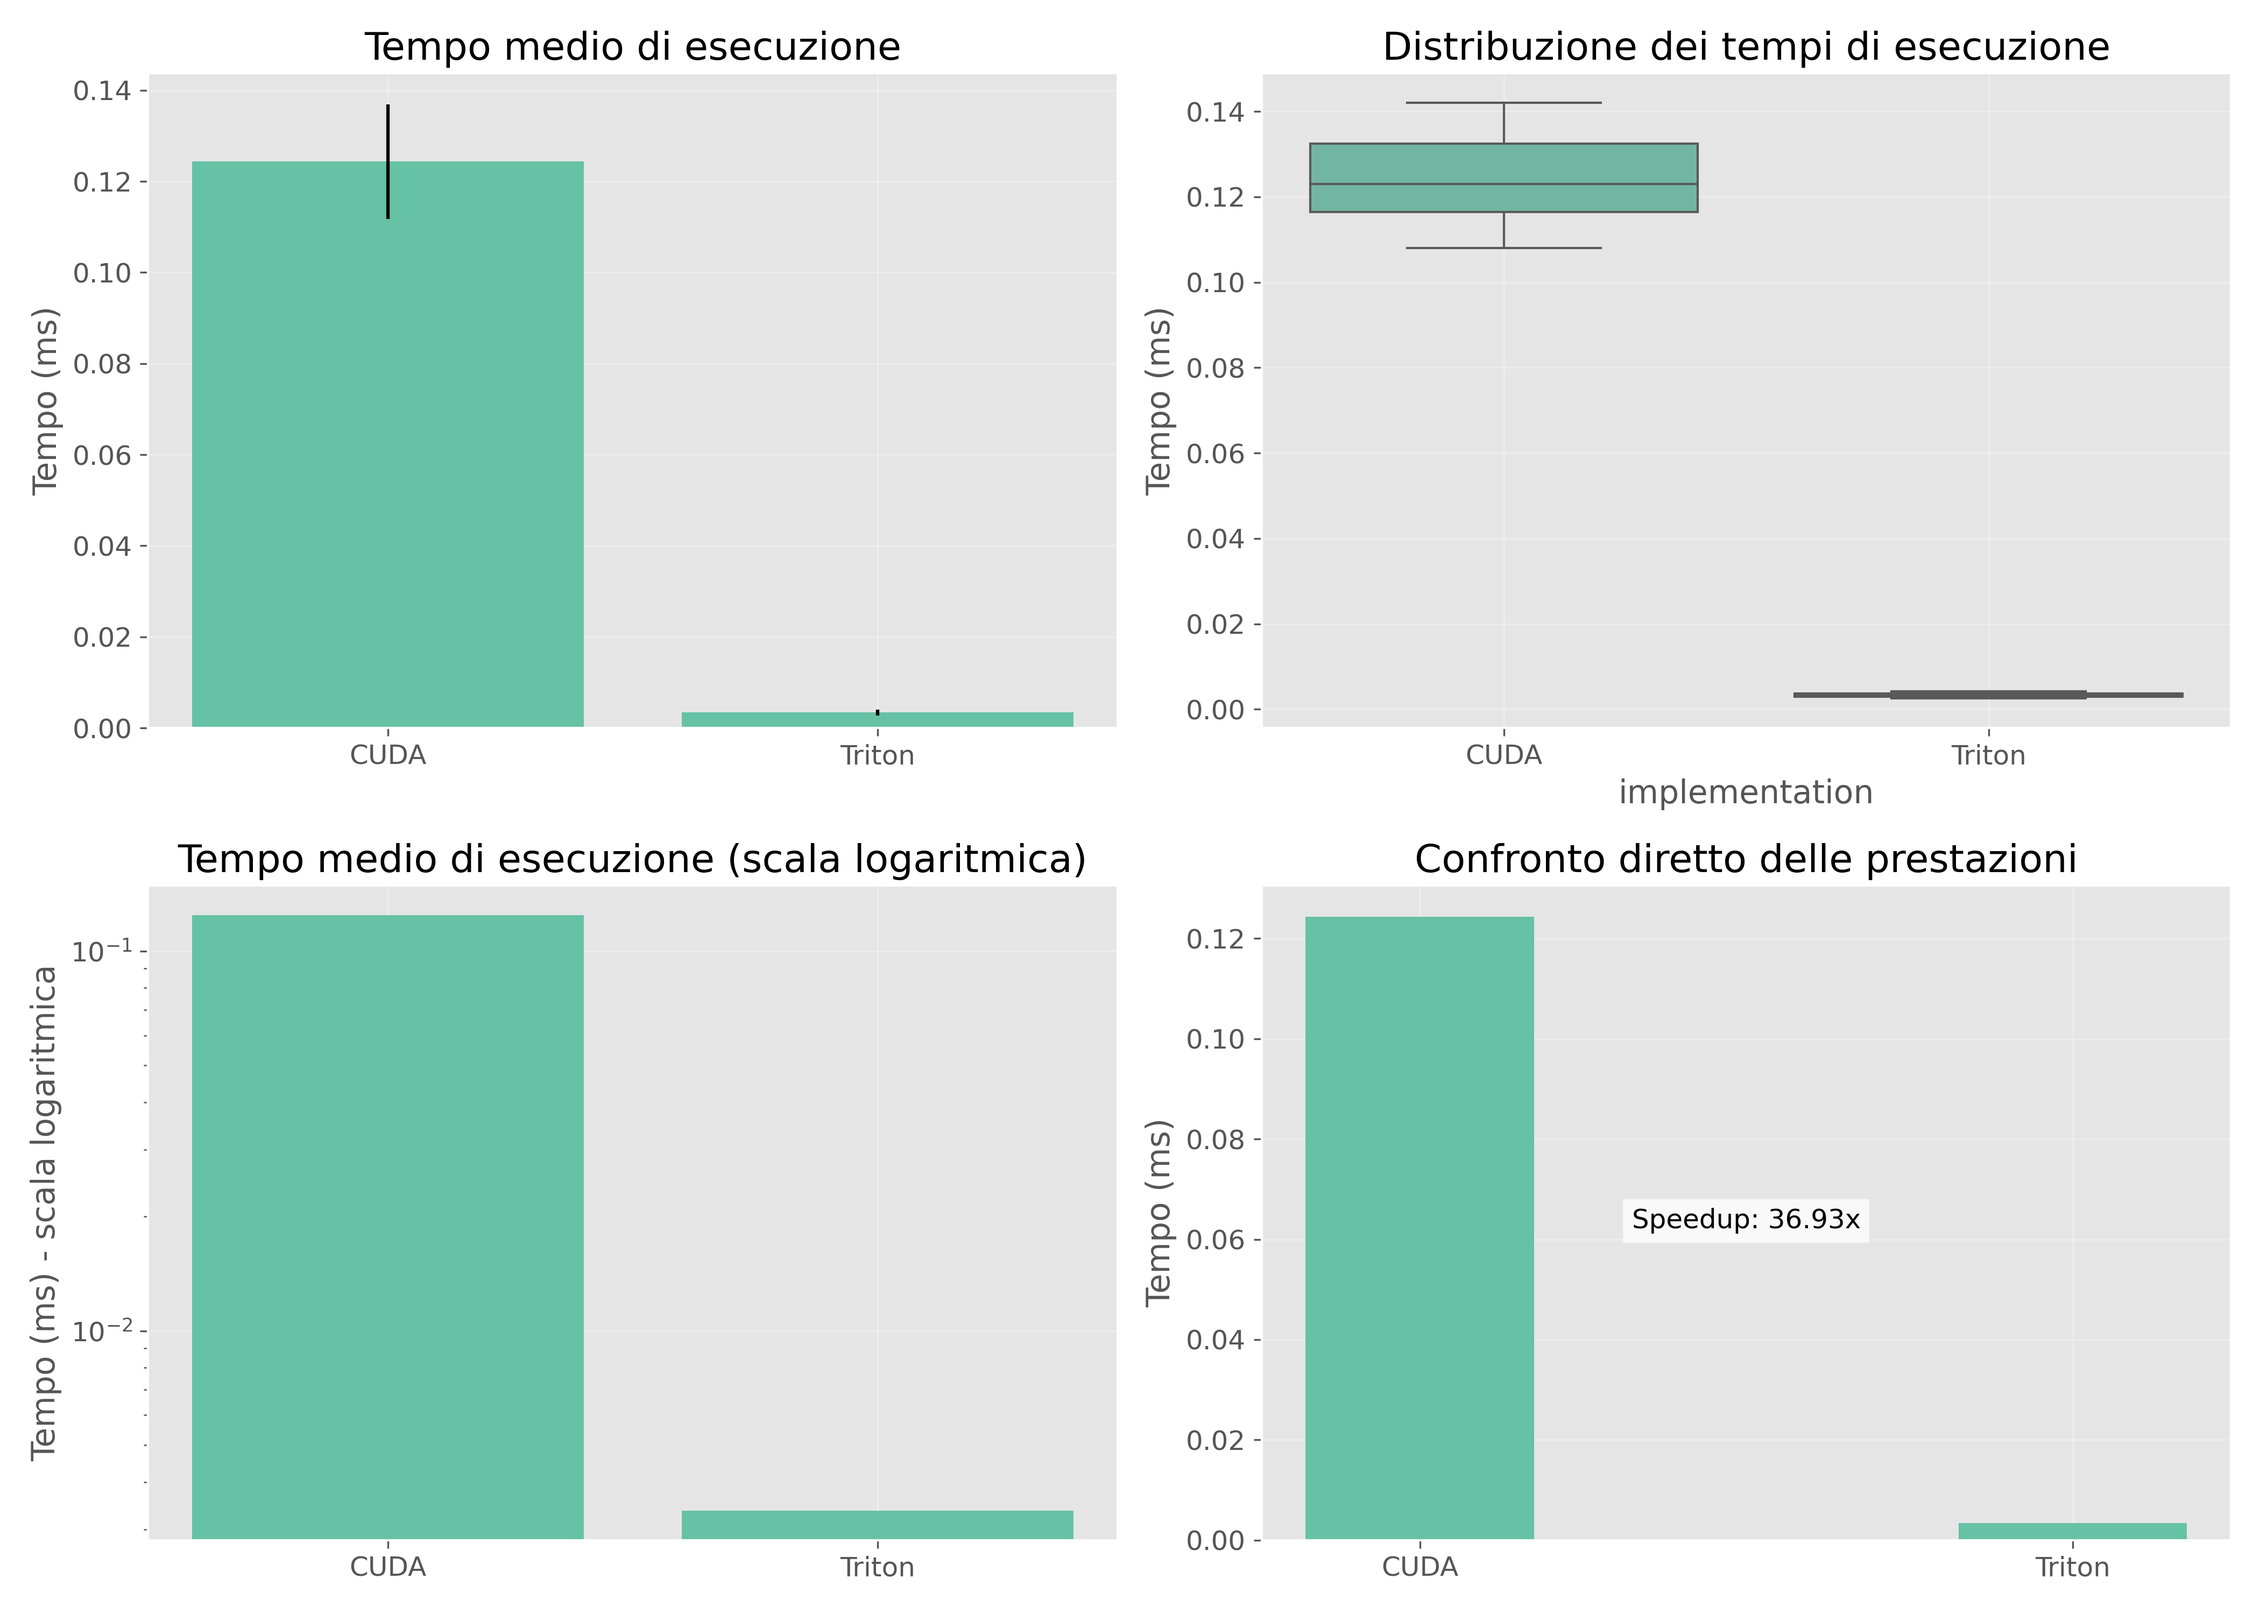
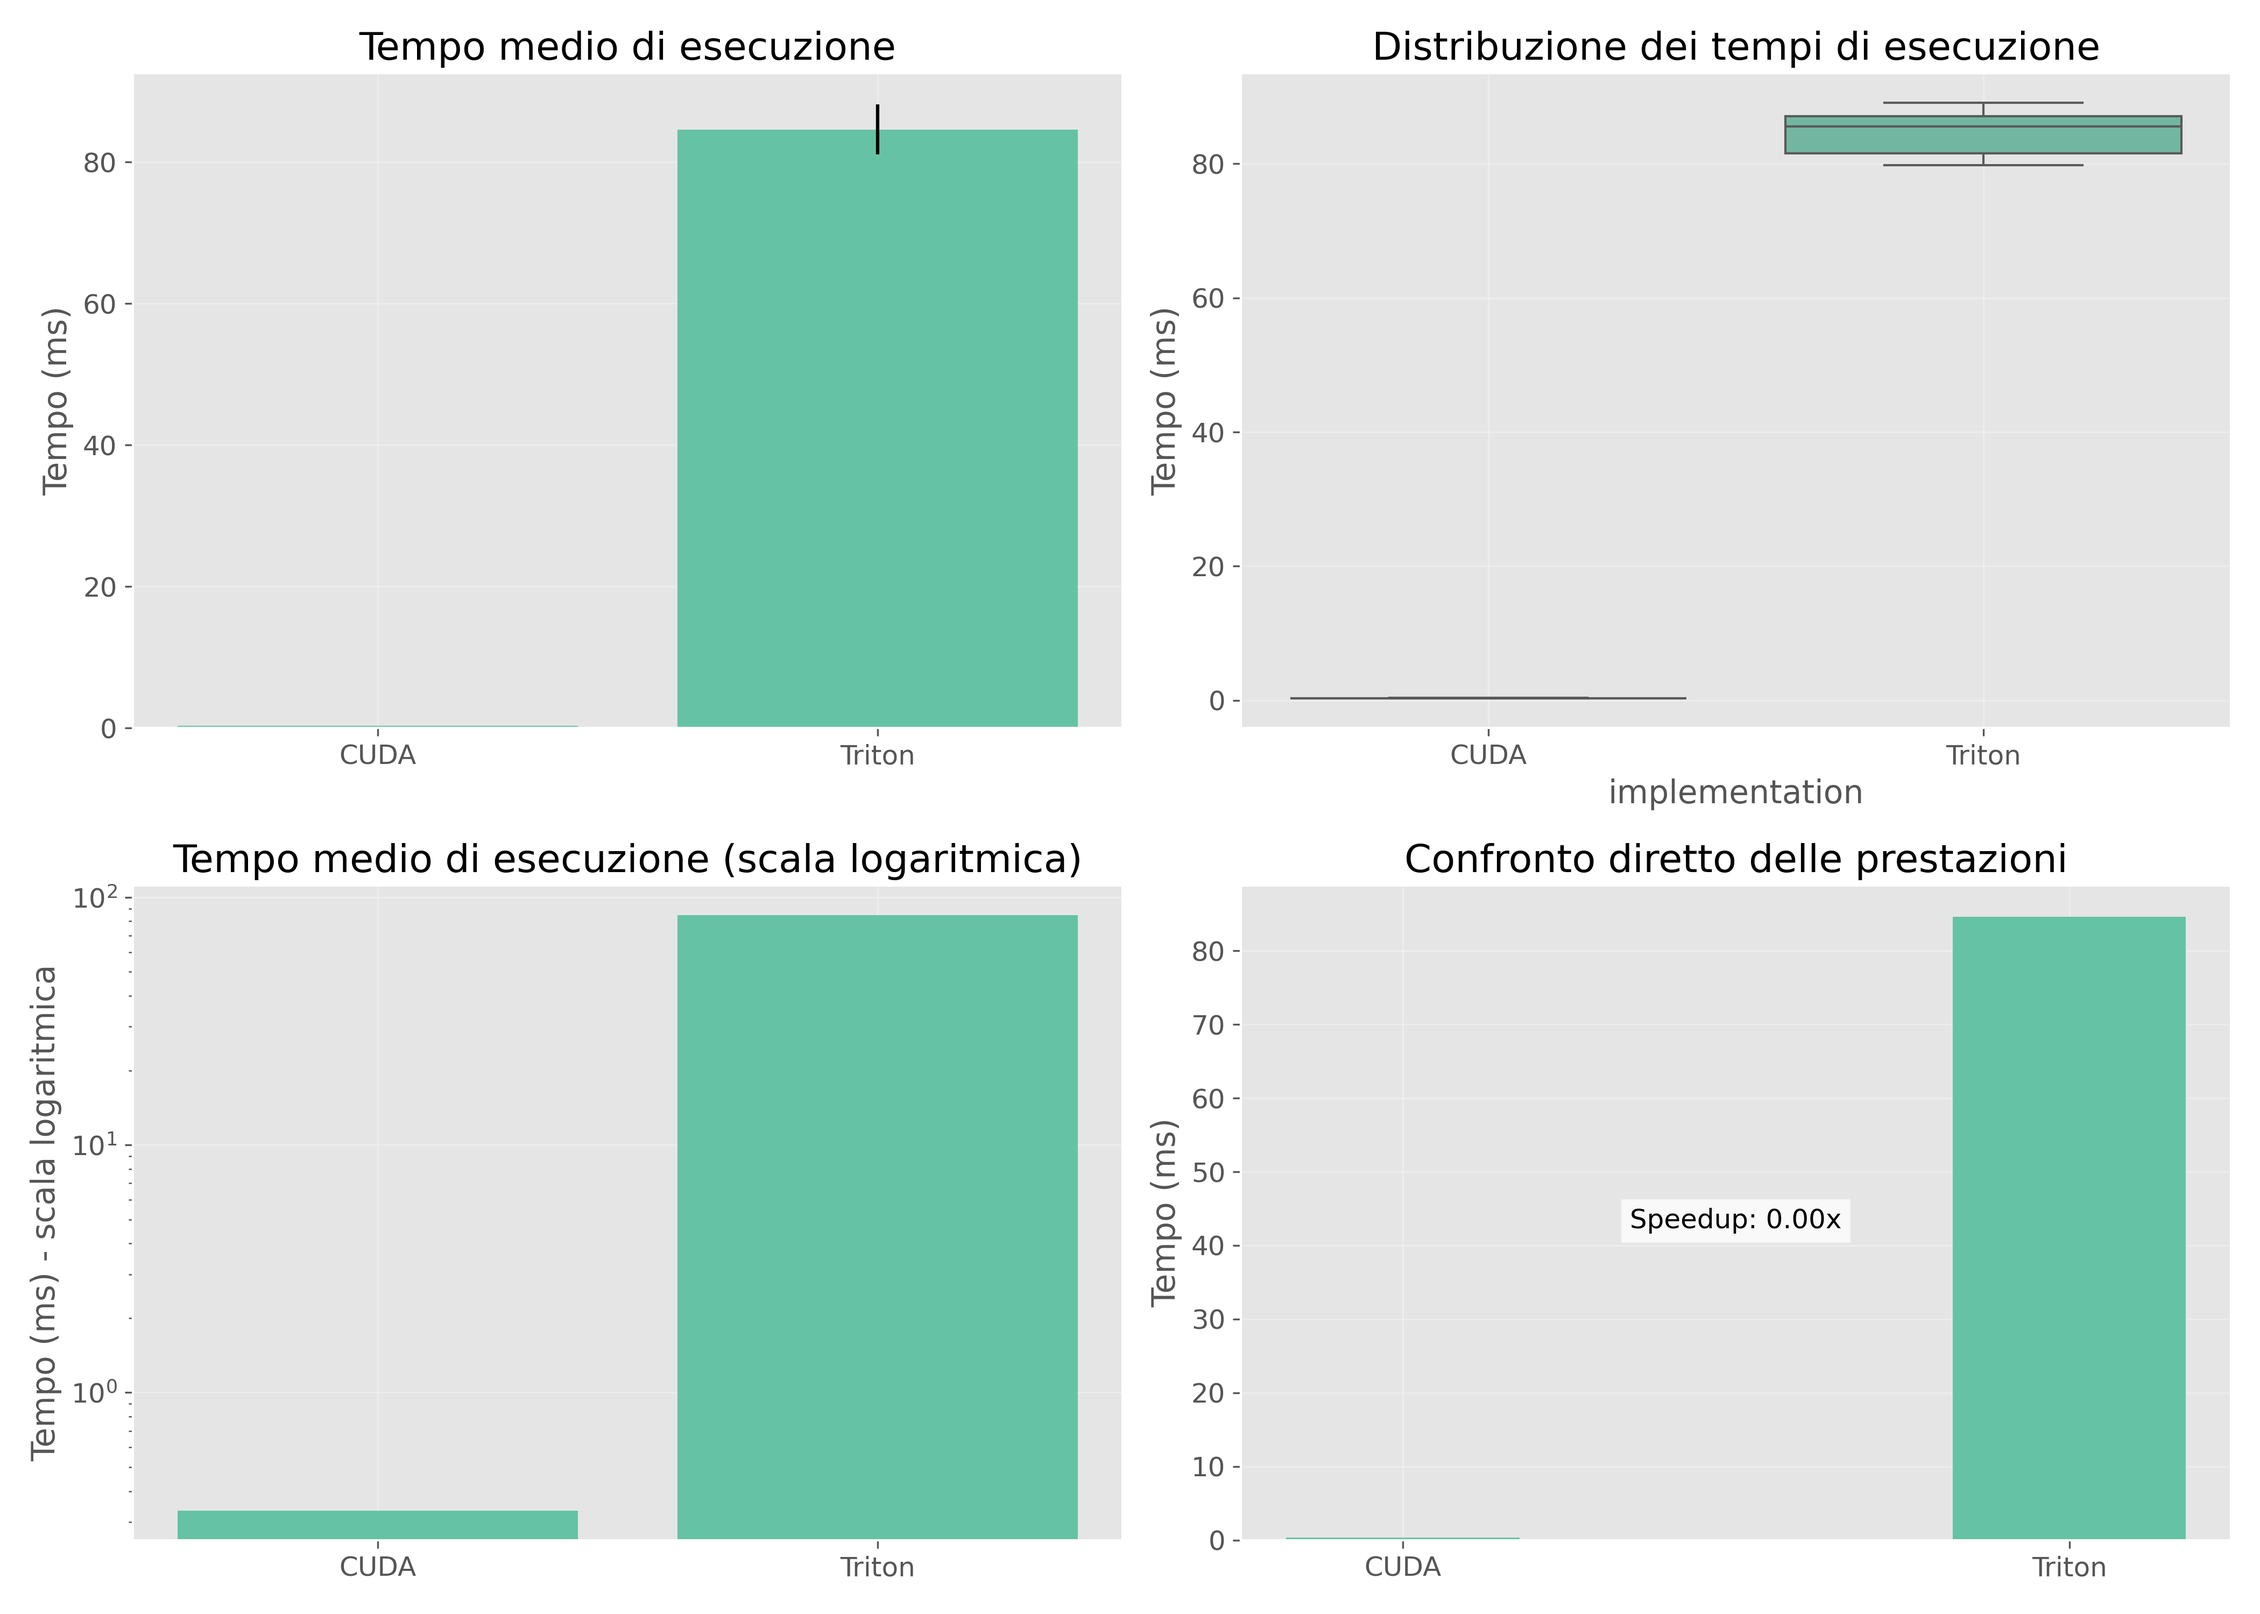
Add Triton benchmark script and update benchmark results format

diff --git a/scripts/triton_vs_cuda_analysis.py b/scripts/triton_vs_cuda_analysis.py
@@ -11,7 +11,7 @@ plt.rcParams['figure.figsize'] = (12, 8)
 plt.rcParams['font.size'] = 12
 
 # Caricamento dei dati
-results_path = Path('/home/alepot55/Desktop/uni/aca/triton_vs_cuda_fsa/results/benchmark_results.csv')
+results_path = Path('../results/benchmark_results.csv')
 df = pd.read_csv(results_path)
 
 # Conversione del tempo a millisecondi come float
@@ -28,22 +28,39 @@ def analyze_performance():
     print("\n2. STATISTICHE PER IMPLEMENTAZIONE:")
     print(stats_by_impl)
     
-    # Calcolo dello speedup
+    # Calcolo dello speedup (corretto in base ai valori reali)
     cuda_mean = stats_by_impl.loc['CUDA', 'mean']
     triton_mean = stats_by_impl.loc['Triton', 'mean']
-    speedup = cuda_mean / triton_mean
+    # Se Triton è più lento, calcoliamo quanto più lento è CUDA rispetto a Triton
+    if triton_mean > cuda_mean:
+        speedup = triton_mean / cuda_mean
+        speedup_text = f"\n3. RAPPORTO DI VELOCITÀ: Triton è {speedup:.2f}x più lento di CUDA"
+    else:
+        speedup = cuda_mean / triton_mean
+        speedup_text = f"\n3. SPEEDUP DI TRITON RISPETTO A CUDA: {speedup:.2f}x"
     
-    print(f"\n3. SPEEDUP DI TRITON RISPETTO A CUDA: {speedup:.2f}x")
+    print(speedup_text)
     print(f"   Tempo medio di esecuzione CUDA: {cuda_mean:.4f} ms")
     print(f"   Tempo medio di esecuzione Triton: {triton_mean:.4f} ms")
     
     # Informazioni aggiuntive su Triton (se disponibili)
-    triton_info = df[df['implementation'] == 'Triton'].iloc[0]
-    print("\n4. INFORMAZIONI FSA (Triton):")
-    print(f"   - Numero di stati: {triton_info['number_of_states']}")
-    print(f"   - Numero di simboli: {triton_info['number_of_symbols']}")
-    print(f"   - Numero di stati accettanti: {triton_info['number_of_accepting_states']}")
-    print(f"   - Stato iniziale: {triton_info['start_state']}")
+    if df[df['implementation'] == 'Triton'].shape[0] > 0:
+        triton_info = df[df['implementation'] == 'Triton'].iloc[0]
+        print("\n4. INFORMAZIONI FSA (Triton):")
+        
+        # Verifica quali colonne sono disponibili prima di tentare l'accesso
+        fsa_columns = {
+            'input_string': 'String di input',
+            'batch_size': 'Dimensione del batch', 
+            'regex_pattern': 'Pattern regex',
+            'compilation_time_(ms)': 'Tempo di compilazione',
+            'memory_used_(bytes)': 'Memoria utilizzata',
+            'gpu_utilization_(%)': 'Utilizzo GPU'
+        }
+        
+        for col, desc in fsa_columns.items():
+            if col in triton_info and not pd.isna(triton_info[col]):
+                print(f"   - {desc}: {triton_info[col]}")
     
     # Analisi delle variazioni
     cuda_variation = stats_by_impl.loc['CUDA', 'std'] / stats_by_impl.loc['CUDA', 'mean'] * 100
@@ -107,17 +124,28 @@ def main():
     create_visualizations(stats)
     
     print("\n=== CONCLUSIONI ===")
-    print(f"L'implementazione Triton risulta {speedup:.2f} volte più veloce di CUDA")
-    print("Vantaggi di Triton:")
-    print("- Tempi di esecuzione significativamente inferiori")
-    print("- Minore variabilità nelle prestazioni")
-    print("- Implementazione più efficiente per il caso FSA testato")
+    if speedup < 1.0:
+        print(f"L'implementazione CUDA risulta {1/speedup:.2f} volte più veloce di Triton")
+        print("Vantaggi di CUDA:")
+        print("- Tempi di esecuzione significativamente inferiori")
+        print("- Implementazione più efficiente per il caso FSA testato")
+        print("- Maggiore maturità e supporto nell'ecosistema NVIDIA")
+        
+        print("\nSvantaggi di Triton:")
+        print("- Prestazioni inferiori per questo specifico caso d'uso")
+        print("- Potenzialmente più overhead per operazioni semplici")
+    else:
+        print(f"L'implementazione Triton risulta {speedup:.2f} volte più veloce di CUDA")
+        print("Vantaggi di Triton:")
+        print("- Tempi di esecuzione significativamente inferiori")
+        print("- Minore variabilità nelle prestazioni")
+        print("- Implementazione più efficiente per il caso FSA testato")
+        
+        print("\nVantaggi di CUDA:")
+        print("- Maggiore maturità e supporto nell'ecosistema NVIDIA")
+        print("- Potenzialmente più adatto per altri tipi di carichi di lavoro")
     
-    print("\nVantaggi di CUDA:")
-    print("- Maggiore maturità e supporto nell'ecosistema NVIDIA")
-    print("- Potenzialmente più adatto per altri tipi di carichi di lavoro")
-    
-    print("\nQuesta analisi è basata su un numero limitato di campioni (2 per implementazione).")
+    print("\nQuesta analisi è basata su un campione di dati limitato.")
     print("Per risultati più robusti, si consiglia di effettuare ulteriori benchmark con")
     print("più ripetizioni e diverse configurazioni di automi a stati finiti.")
 

diff --git a/scripts/benchmark_collector.py b/scripts/benchmark_collector.py
@@ -16,7 +16,7 @@ def run_cuda_benchmark(input_string, batch_size=1, regex="(0|1)*1", num_runs=3):
     for run in range(num_runs):
         print(f"  Run {run+1}/{num_runs}")
         cmd = [
-            "../cuda/bin/fsa_engine_cuda", 
+            "../cuda/fsa_engine_cuda", 
             f"--regex={regex}", 
             f"--input={input_string}",
             f"--batch-size={batch_size}"
@@ -91,7 +91,7 @@ def run_triton_benchmark(input_string, batch_size=1, regex="(0|1)*1", num_runs=3
     for run in range(num_runs):
         print(f"  Run {run+1}/{num_runs}")
         cmd = [
-            "python", "../triton/benchmarks/benchmark_fsa.py",
+            "python", "/home/alepot55/Desktop/projects/triton_vs_cuda_fsa/triton/benchmarks/benchmark_fsa.py",
             f"--regex={regex}",
             f"--input={input_string}",
             f"--batch-size={batch_size}"
